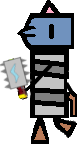
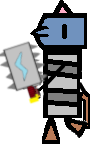
.

diff --git a/characters.js b/characters.js
@@ -136,7 +136,8 @@ characters = {
 			'player standing 02.png',
 		],
 		up: [
-			'player up.png',
+			'player up 01.png',
+			'player up 02.png',
 		],
 		down: [
 			'player down 01.png',
@@ -170,7 +171,8 @@ characters = {
 					'player standing wielding enchanted sword.png',
 				],
 				up: [
-					'player standing wielding enchanted sword.png',
+					'player up wielding 01.png',
+					'player up wielding 02.png',
 				],
 				down: [
 					'player standing wielding enchanted sword.png',
@@ -189,10 +191,12 @@ characters = {
 					'player standing wielding venom dagger.png',
 				],
 				up: [
-					'player standing wielding venom dagger.png',
+					'player up wielding 01.png',
+					'player up wielding 02.png',
 				],
 				down: [
-					'player standing wielding venom dagger.png',
+					'player down wielding venom dagger 01.png',
+					'player down wielding venom dagger 02.png',
 				],
 			},
 			electrosmasher: {
@@ -208,7 +212,8 @@ characters = {
 					'player standing wielding electrosmasher.png',
 				],
 				up: [
-					'player standing wielding electrosmasher.png',
+					'player up wielding 01.png',
+					'player up wielding 02.png',
 				],
 				down: [
 					'player standing wielding electrosmasher.png',
@@ -230,6 +235,14 @@ characters = {
 				],
 				right: [
 					'player right strike venom dagger.png',
+				]
+			},
+			electrosmasher: {
+				left: [
+					'player left strike electrosmasher.png',
+				],
+				right: [
+					'player right strike electrosmasher.png',
 				]
 			},
 		},
